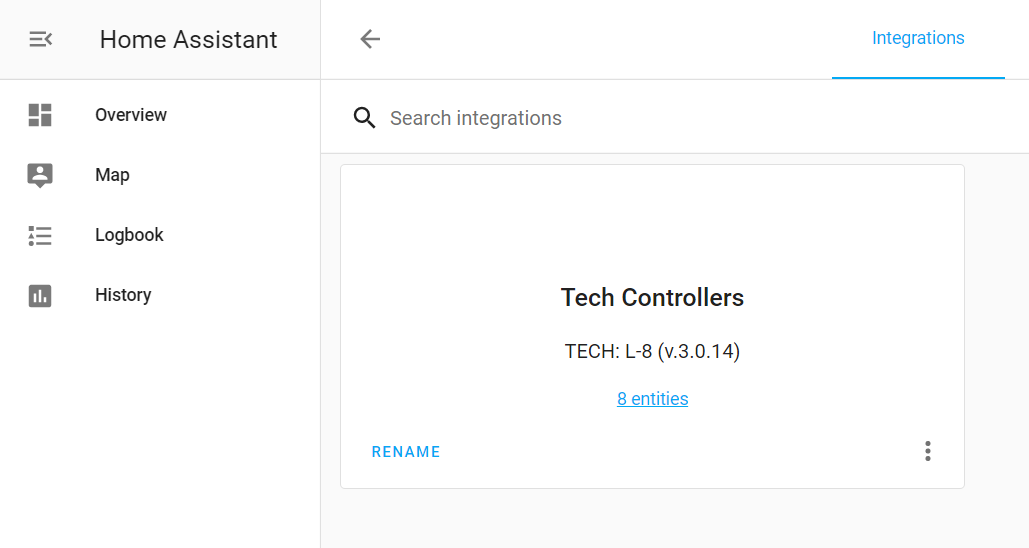
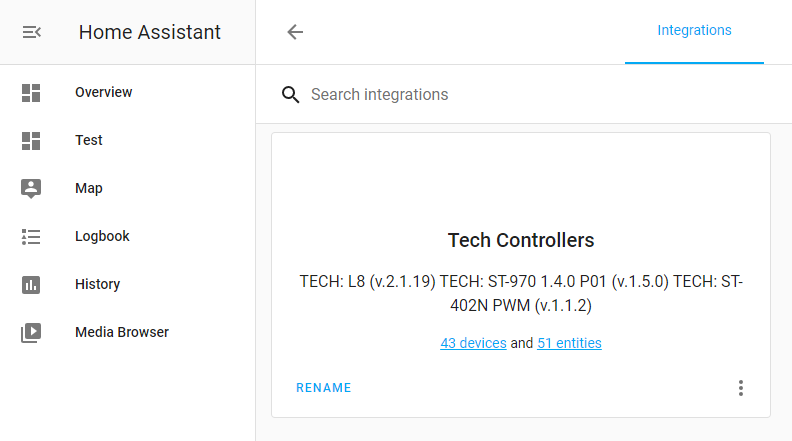
Images update for new features #7 #15 #24 for README.

diff --git a/README.md b/README.md
@@ -59,7 +59,9 @@ This is my first integration ever developed for Home Assistant, and although I d
 
 ![Tech Controllers Setup 3](/custom_components/tech/images/ha-tech-add-integration-3.png)
 
-![Tech Controllers Setup 4](/custom_components/tech/images/ha-tech-2.png)
+![Tech Controllers Setup 4](/custom_components/tech/images/ha-tech-add-integration-4.png)
+
+![Tech Controllers Setup 5](/custom_components/tech/images/ha-tech-2.png)
 
 ## List of reported working TECH Controllers 
 * L4-WiFi (v.1.0.24)
